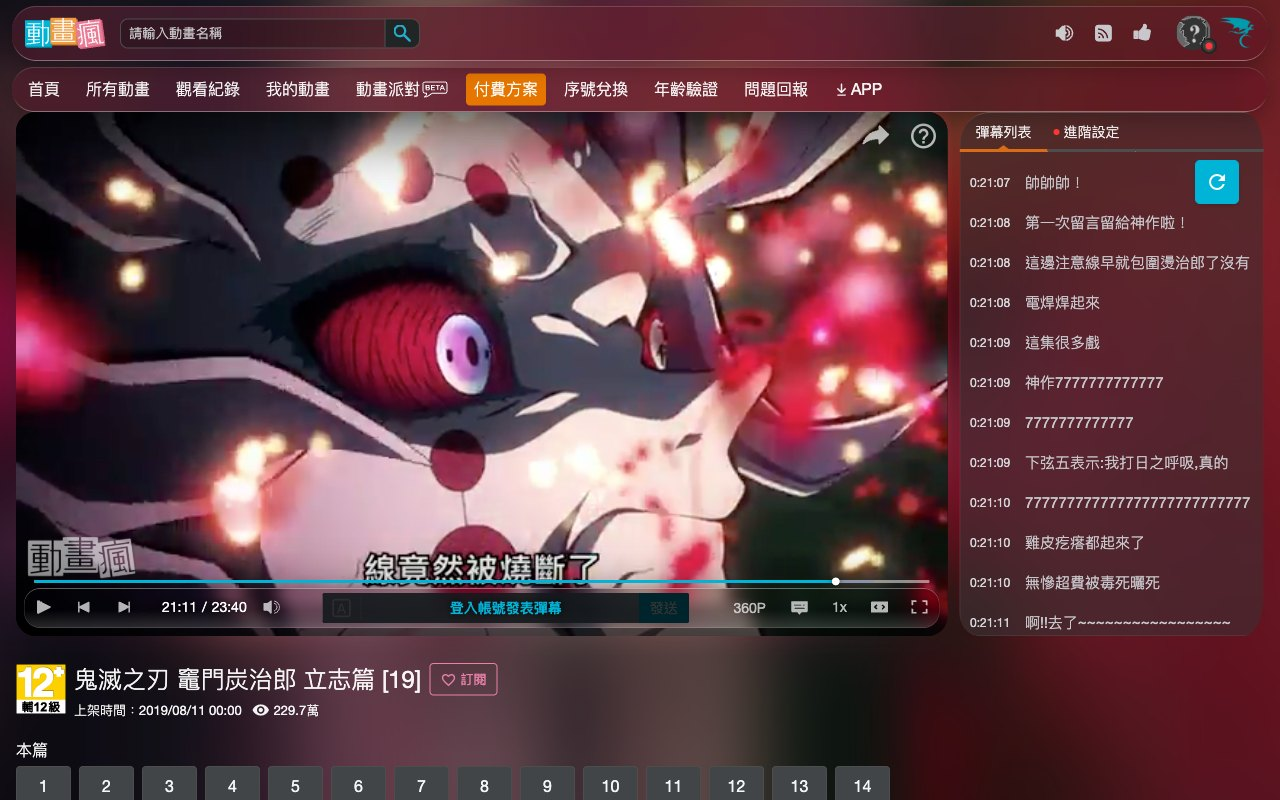
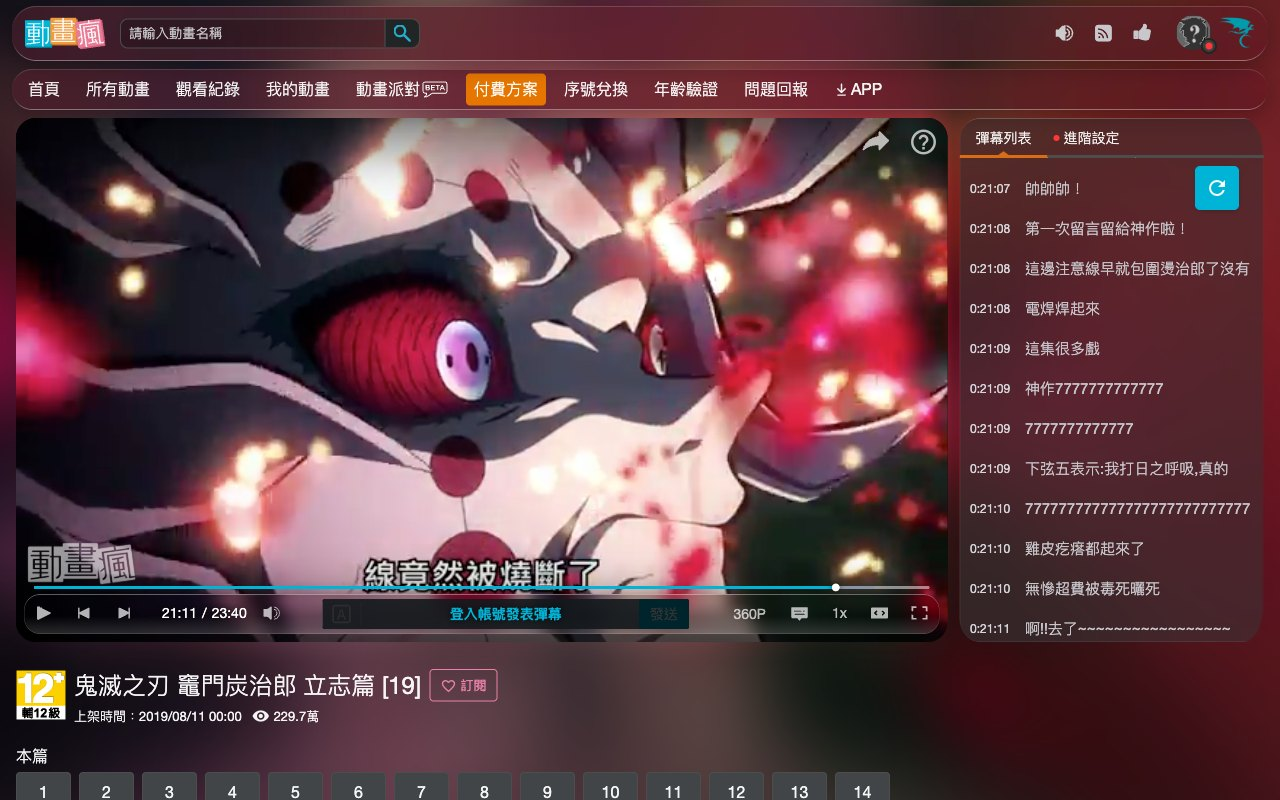
chore: release 1.2.2
- 方向：發佈設計統一修正（PR #5）的 1.2.2 版本，更新有變動的截圖與說明，
  並補上淺色卡片漏掉的 Shorts 架。
- 改動：
  - manifest.json version 1.2.1 → 1.2.2；README 下載連結改為 1.2.2。
  - 淺色卡片：推薦欄的 Shorts 架（ytd-reel-shelf-renderer）也是卡片。重拍商店截圖 05
    時發現它的文字直接落在無遮罩的背景上；未登入 Big Buck Bunny 頁才有這個架，
    原本的覆蓋測試頁沒有。
  - 截圖：動畫瘋四張重拍（選單間距、放大背景到標題下緣），商店 05（淺色觀看頁，
    卡片圓角與 Shorts 架卡片）重拍。
- 狀態：完成（dist/glasslight-1.2.2.zip）

Verified: check-light-cards 10/10 on both the playlist test video and Big
Buck Bunny (all visible text on a card, no overlap); packaged build
check-backdrop-modes 11/11 and check-light-cards 10/10.

diff --git a/src/styles/glass.css b/src/styles/glass.css
@@ -717,6 +717,7 @@ html.lg-on.lg-cards :is(
   #related ytd-compact-video-renderer,
   #related ytd-compact-radio-renderer,
   #related ytd-compact-playlist-renderer,
+  #related ytd-reel-shelf-renderer,
   ytd-engagement-panel-section-list-renderer,
   ytd-live-chat-frame,
   ytd-ad-slot-renderer
@@ -734,6 +735,7 @@ html.lg-on.lg-cards :is(
   #related ytd-compact-video-renderer,
   #related ytd-compact-radio-renderer,
   #related ytd-compact-playlist-renderer,
+  #related ytd-reel-shelf-renderer,
   ytd-engagement-panel-section-list-renderer,
   ytd-live-chat-frame,
   ytd-ad-slot-renderer
@@ -762,7 +764,8 @@ html.lg-on.lg-cards :is(
   #related yt-lockup-view-model,
   #related ytd-compact-video-renderer,
   #related ytd-compact-radio-renderer,
-  #related ytd-compact-playlist-renderer
+  #related ytd-compact-playlist-renderer,
+  #related ytd-reel-shelf-renderer
 )::before {
   inset: -3px -6px;
 }

diff --git a/src/content/ambient.js b/src/content/ambient.js
@@ -1079,6 +1079,7 @@
     '#related ytd-compact-video-renderer',
     '#related ytd-compact-radio-renderer',
     '#related ytd-compact-playlist-renderer',
+    '#related ytd-reel-shelf-renderer', // Shorts shelf in the related list
     'ytd-engagement-panel-section-list-renderer',
     'ytd-live-chat-frame',
     'ytd-ad-slot-renderer', // sponsored items in the related list

diff --git a/README.md b/README.md
@@ -117,7 +117,7 @@ Chrome offers no way to change those at runtime.
 ## Install
 
 Download
-[glasslight-1.2.1.zip](https://github.com/Vik1n9/glasslight/releases/latest/download/glasslight-1.2.1.zip)
+[glasslight-1.2.2.zip](https://github.com/Vik1n9/glasslight/releases/latest/download/glasslight-1.2.2.zip)
 from [Releases](https://github.com/Vik1n9/glasslight/releases). Unzip it so the
 folder contains `manifest.json`, then `chrome://extensions` → Developer mode →
 **Load unpacked** → that folder. Chromium 116 or newer; Edge and Brave use the
